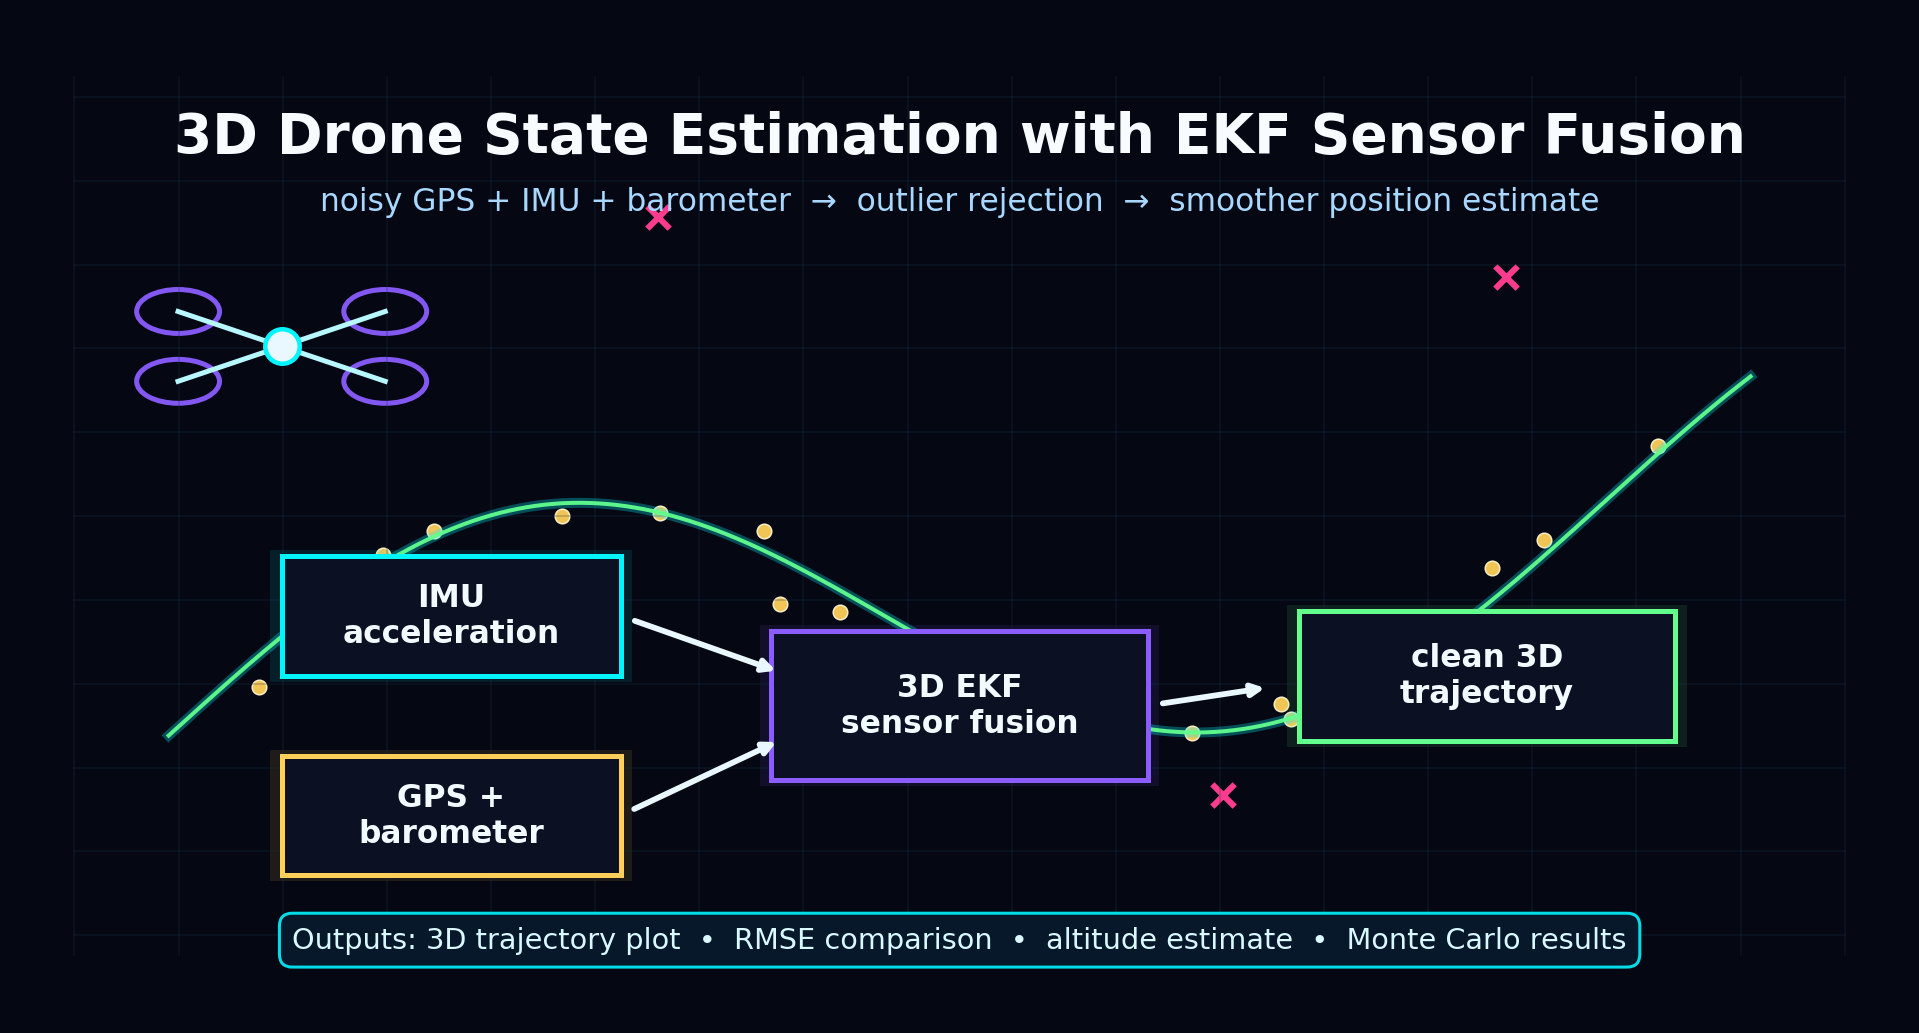
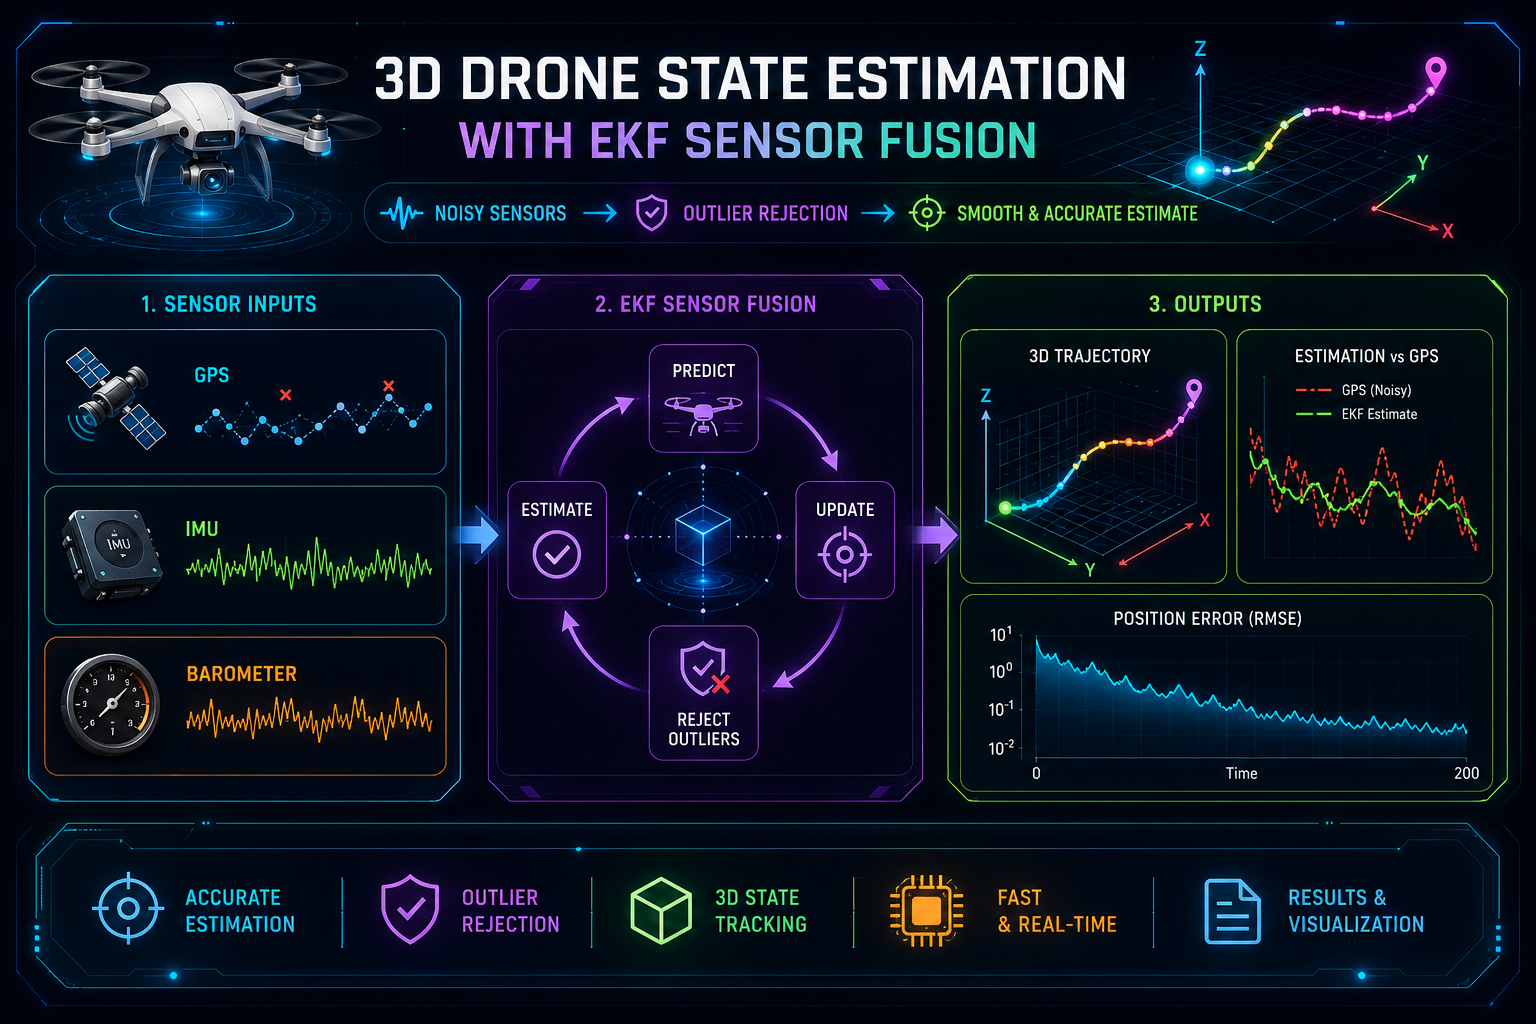
Updates

diff --git a/src/plots.py b/src/plots.py
@@ -7,89 +7,6 @@ def ensure_dir(path):
     os.makedirs(path, exist_ok=True)
 
 
-def make_graphical_abstract(save_path):
-    """Draw the README diagram.
-
-    I kept this as code instead of a separate design file so the image can be
-    regenerated whenever the project is run. The style is intentionally a bit
-    more futuristic than the plots used for the actual results.
-    """
-    fig, ax = plt.subplots(figsize=(13.5, 7.2))
-    fig.patch.set_facecolor("#050712")
-    ax.set_facecolor("#050712")
-    ax.set_xlim(0, 1)
-    ax.set_ylim(0, 1)
-    ax.axis("off")
-
-    # Soft background grid.
-    for x in np.linspace(0.03, 0.97, 18):
-        ax.plot([x, x], [0.06, 0.94], color="#18324a", alpha=0.22, lw=0.8)
-    for y in np.linspace(0.08, 0.92, 11):
-        ax.plot([0.03, 0.97], [y, y], color="#18324a", alpha=0.22, lw=0.8)
-
-    # A curved flight path to make the abstract feel like a robotics project,
-    # not just a flowchart.
-    t = np.linspace(0, 1, 350)
-    x_path = 0.08 + 0.84 * t
-    y_path = 0.28 + 0.17 * np.sin(2.2 * np.pi * t) + 0.26 * t
-    ax.plot(x_path, y_path, color="#00f5ff", lw=4.0, alpha=0.30)
-    ax.plot(x_path, y_path, color="#62ff8e", lw=1.6, alpha=0.95)
-
-    # Noisy GPS samples and a few obvious outliers.
-    rng = np.random.default_rng(7)
-    sample_idx = np.linspace(20, 330, 22).astype(int)
-    gps_x = x_path[sample_idx] + rng.normal(0, 0.015, len(sample_idx))
-    gps_y = y_path[sample_idx] + rng.normal(0, 0.025, len(sample_idx))
-    ax.scatter(gps_x, gps_y, s=34, color="#ffcf5a", edgecolor="#fff5cf", lw=0.6,
-               alpha=0.95, label="GPS")
-    out_x = np.array([0.34, 0.64, 0.79])
-    out_y = np.array([0.80, 0.22, 0.74])
-    ax.scatter(out_x, out_y, s=80, marker="x", color="#ff3b8d", lw=2.4,
-               label="rejected GPS")
-
-    # Simple drone icon.
-    drone_x, drone_y = 0.14, 0.67
-    ax.scatter([drone_x], [drone_y], s=190, color="#e9f7ff", edgecolor="#00f5ff", lw=1.8, zorder=5)
-    arm_color = "#b7f7ff"
-    rotor_color = "#8b5cff"
-    for dx, dy in [(0.055, 0.035), (-0.055, 0.035), (0.055, -0.035), (-0.055, -0.035)]:
-        ax.plot([drone_x, drone_x + dx], [drone_y, drone_y + dy], color=arm_color, lw=2.0, zorder=4)
-        circ = plt.Circle((drone_x + dx, drone_y + dy), 0.022, fc="none", ec=rotor_color, lw=2.0, alpha=0.95)
-        ax.add_patch(circ)
-
-    def neon_box(cx, cy, w, h, text, edge, fill="#0b1023"):
-        # Draw a small glow behind the main box.
-        glow = plt.Rectangle((cx - w/2 - 0.006, cy - h/2 - 0.006), w + 0.012, h + 0.012,
-                             fc=edge, ec="none", alpha=0.10, zorder=1)
-        ax.add_patch(glow)
-        box = plt.Rectangle((cx - w/2, cy - h/2), w, h, fc=fill, ec=edge, lw=2.0, zorder=2)
-        ax.add_patch(box)
-        ax.text(cx, cy, text, ha="center", va="center", color="#f2fbff",
-                fontsize=12.5, fontweight="bold", zorder=3)
-
-    neon_box(0.23, 0.40, 0.18, 0.12, "IMU\nacceleration", "#00f5ff")
-    neon_box(0.23, 0.20, 0.18, 0.12, "GPS +\nbarometer", "#ffcf5a")
-    neon_box(0.50, 0.31, 0.20, 0.15, "3D EKF\nsensor fusion", "#8b5cff")
-    neon_box(0.78, 0.34, 0.20, 0.13, "clean 3D\ntrajectory", "#62ff8e")
-
-    arrow_style = dict(arrowstyle="-|>", lw=2.3, color="#e9f7ff", shrinkA=6, shrinkB=6)
-    ax.annotate("", xy=(0.41, 0.34), xytext=(0.32, 0.40), arrowprops=arrow_style)
-    ax.annotate("", xy=(0.41, 0.28), xytext=(0.32, 0.20), arrowprops=arrow_style)
-    ax.annotate("", xy=(0.67, 0.33), xytext=(0.60, 0.31), arrowprops=arrow_style)
-
-    ax.text(0.50, 0.88, "3D Drone State Estimation with EKF Sensor Fusion",
-            ha="center", va="center", color="#f8fbff", fontsize=22, fontweight="bold")
-    ax.text(0.50, 0.815, "noisy GPS + IMU + barometer  →  outlier rejection  →  smoother position estimate",
-            ha="center", va="center", color="#a8d8ff", fontsize=12.5)
-
-    # Bottom metric strip.
-    ax.text(0.50, 0.075, "Outputs: 3D trajectory plot  •  RMSE comparison  •  altitude estimate  •  Monte Carlo results",
-            ha="center", va="center", color="#d9f8ff", fontsize=11.5,
-            bbox=dict(boxstyle="round,pad=0.45", fc="#071a2d", ec="#00f5ff", lw=1.2, alpha=0.9))
-
-    fig.savefig(save_path, dpi=180, bbox_inches="tight", facecolor=fig.get_facecolor())
-    plt.close(fig)
-
 def plot_3d(time, truth, gps, estimate, gps_used, save_path):
     fig = plt.figure(figsize=(9, 7))
     ax = fig.add_subplot(111, projection="3d")

diff --git a/main.py b/main.py
@@ -19,7 +19,7 @@ from src.simulate_drone import make_dataset
 from src.ekf import run_filter
 from src.metrics import position_rmse, gps_rmse, axis_rmse
 from src.plots import (
-    ensure_dir, make_graphical_abstract, plot_3d,
+    ensure_dir, plot_3d,
     plot_position_errors, plot_altitude,
 )
 from src.monte_carlo import run_monte_carlo
@@ -103,7 +103,6 @@ def main():
     save_main_csv(os.path.join(out_dir, "flight_estimation_results.csv"), data, estimate, gps_used, gate_scores)
 
     plot_jobs = [
-        ("graphical abstract", lambda: make_graphical_abstract(os.path.join(fig_dir, "graphical_abstract.png"))),
         ("3D trajectory", lambda: plot_3d(data["time"], data["truth"], data["gps"], estimate, gps_used,
                                           os.path.join(fig_dir, "trajectory_3d.png"))),
         ("position error", lambda: plot_position_errors(data["time"], data["truth"], data["gps"], estimate,
@@ -125,7 +124,6 @@ def main():
     print(f"Average EKF RMSE: {avg_ekf:.3f} m")
 
     print("\nSaved files:")
-    print(" - figures/graphical_abstract.png")
     print(" - figures/trajectory_3d.png")
     print(" - figures/position_error.png")
     print(" - figures/altitude_estimate.png")

diff --git a/README.md b/README.md
@@ -15,28 +15,6 @@ The script simulates a drone flying through a smooth 3D path. Then it adds reali
 
 The EKF uses the IMU for prediction, then updates the estimate using GPS and barometer data. A simple gate checks the GPS residual before accepting a GPS update. This helps prevent large GPS spikes from pulling the estimate away from the real trajectory.
 
-## Why I built it
-
-I wanted a project that was more useful than a basic Kalman filter example. This version has a few things that show up in real robotics work: sensor noise, bad measurements, state prediction, measurement updates, and performance checks over multiple runs.
-
-## Project structure
-
-```text
-3d_drone_ekf_sensor_fusion/
-├── main.py
-├── config.py
-├── requirements.txt
-├── README.md
-├── src/
-│   ├── ekf.py
-│   ├── metrics.py
-│   ├── monte_carlo.py
-│   ├── plots.py
-│   └── simulate_drone.py
-├── figures/
-└── outputs/
-```
-
 ## How to run
 
 Install the requirements: